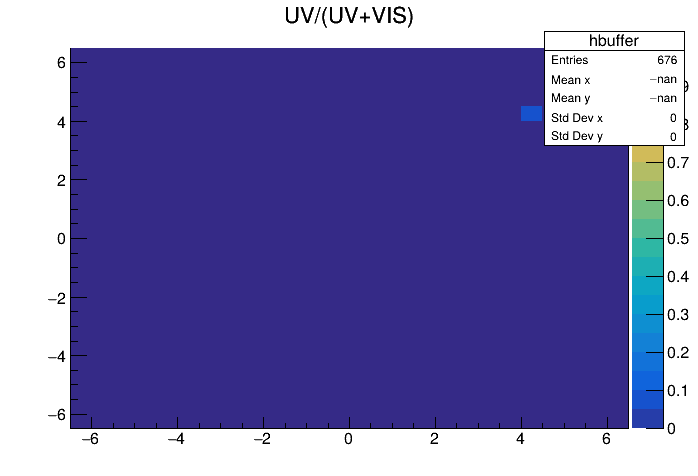
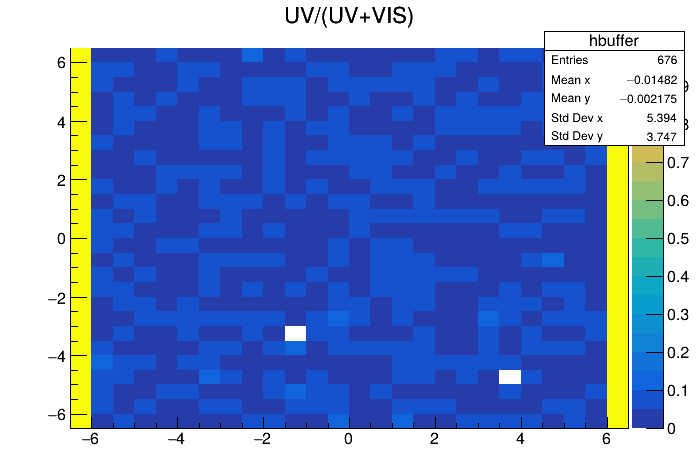
start

diff --git a/project/analysis/analysis.cpp b/project/analysis/analysis.cpp
@@ -72,8 +72,12 @@ void analysis()
     int ny = h2->GetNbinsY();
     std::vector<std::vector<double>> mat_uv(nx, std::vector<double>(ny,0));
     std::vector<std::vector<double>> mat_vis(nx, std::vector<double>(ny,0));
+    std::vector<std::vector<double>> mat_all(nx, std::vector<double>(ny,0));
     std::vector<std::vector<double>> buffer(nx, std::vector<double>(ny,0));
     std::vector<std::vector<double>> myratio(nx, std::vector<double>(ny,0));
+
+    double lightyield_avg=0;
+    double lightyield_min=10000;
 
     for(int i=1; i<=nx; i++)        // ROOT bins começam em 1
     {
@@ -81,12 +85,26 @@ void analysis()
         {
             mat_vis[i-1][j-1] = h2->GetBinContent(i,j);
             mat_uv[i-1][j-1] = h3->GetBinContent(i,j);
+            mat_all[i-1][j-1] = h4->GetBinContent(i,j);
             buffer[i-1][j-1] =   mat_uv[i-1][j-1]/(  mat_uv[i-1][j-1] + mat_vis[i-1][j-1] );
             myratio[i-1][j-1] =   mat_uv[i-1][j-1]/(mat_vis[i-1][j-1] );
         }
     }
 
-    std::cout << "----- VIS ------" << std::endl;
+    int cont=0;
+    for(int i=0; i<nx; i++)        
+    {
+        for(int j=1; j<ny-1; j++)
+        {
+            lightyield_avg+=mat_all[i][j];
+            cont++;
+        }
+    }
+    lightyield_avg=lightyield_avg/cont;
+    std::cout << "AVG Light Yield: " << lightyield_avg << std::endl;
+
+
+    /* std::cout << "----- VIS ------" << std::endl;
     // --- Printar na tela ---
     for(int j=ny-1; j>=0; j--)  // imprimir Y crescente de cima para baixo
     {
@@ -106,7 +124,7 @@ void analysis()
             std::cout << mat_uv[i][j] << " ";
         }
         std::cout << std::endl;
-    }
+    } */
 
     // Criar histograma para o buffer
     TH2D *hbuffer = new TH2D("hbuffer","UV/(UV+VIS)", nx, -6.5, 6.5, ny, -6.5, 6.5);

diff --git a/project/src/PrimaryGeneratorAction.cc b/project/src/PrimaryGeneratorAction.cc
@@ -72,8 +72,8 @@ void PrimaryGeneratorAction::GeneratePrimaries(G4Event* anEvent)
         }
 
         G4double x_pos = 0*m;//(-1+2*G4UniformRand())*cryostat_sizeX/2;
-        G4double y_pos = 4*m; //(-1+2*G4UniformRand())*cryostat_sizeY/2;
-        G4double z_pos = 4*m; //(-1+2*G4UniformRand())*cryostat_sizeZ/2;
+        G4double y_pos = 0*m; //(-1+2*G4UniformRand())*cryostat_sizeY/2;
+        G4double z_pos = 0*m; //(-1+2*G4UniformRand())*cryostat_sizeZ/2;
 
         G4String targetVolumeName = "argon";
 
@@ -82,9 +82,9 @@ void PrimaryGeneratorAction::GeneratePrimaries(G4Event* anEvent)
 
         G4VPhysicalVolume* volume = nullptr;
     
-        /* x_pos = (-0.25 + 0.5*G4UniformRand())*m;
+        x_pos = (-0.25 + 0.5*G4UniformRand())*m;
         y_pos = (-1 + 2*G4UniformRand())*cryostat_sizeY/2;
-        z_pos = (-1 + 2*G4UniformRand())*cryostat_sizeZ/2; */
+        z_pos = (-1 + 2*G4UniformRand())*cryostat_sizeZ/2;
 
       /*   do 
         {
